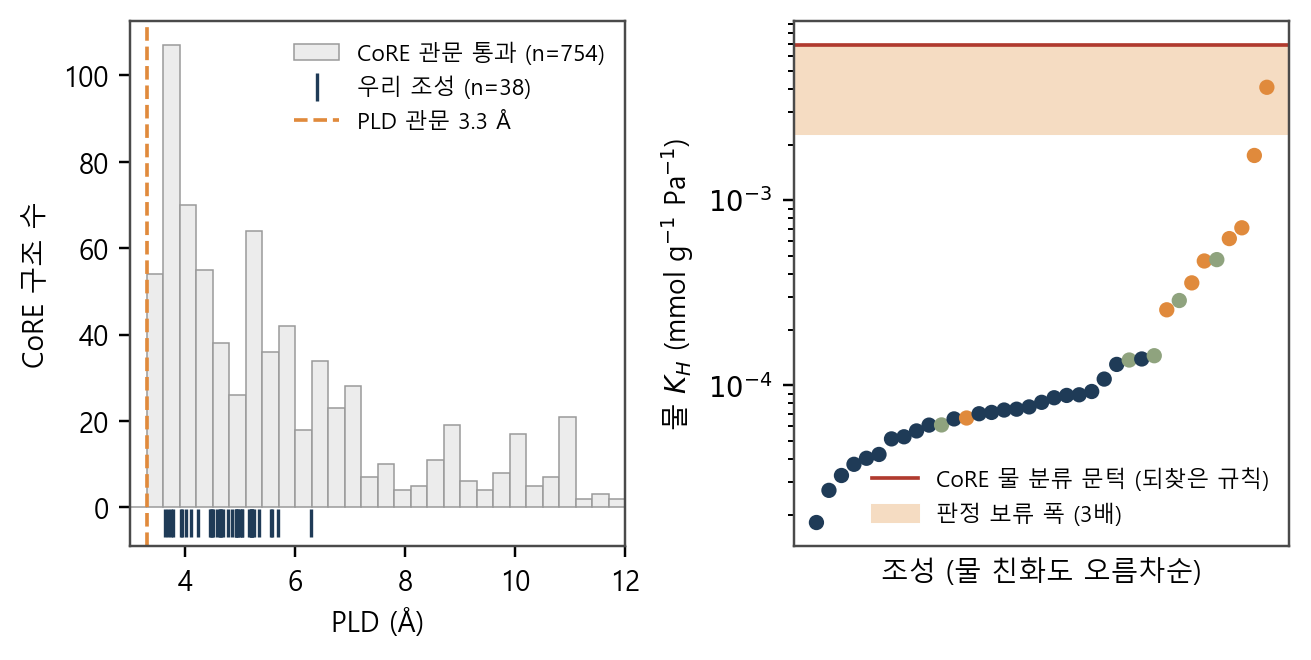
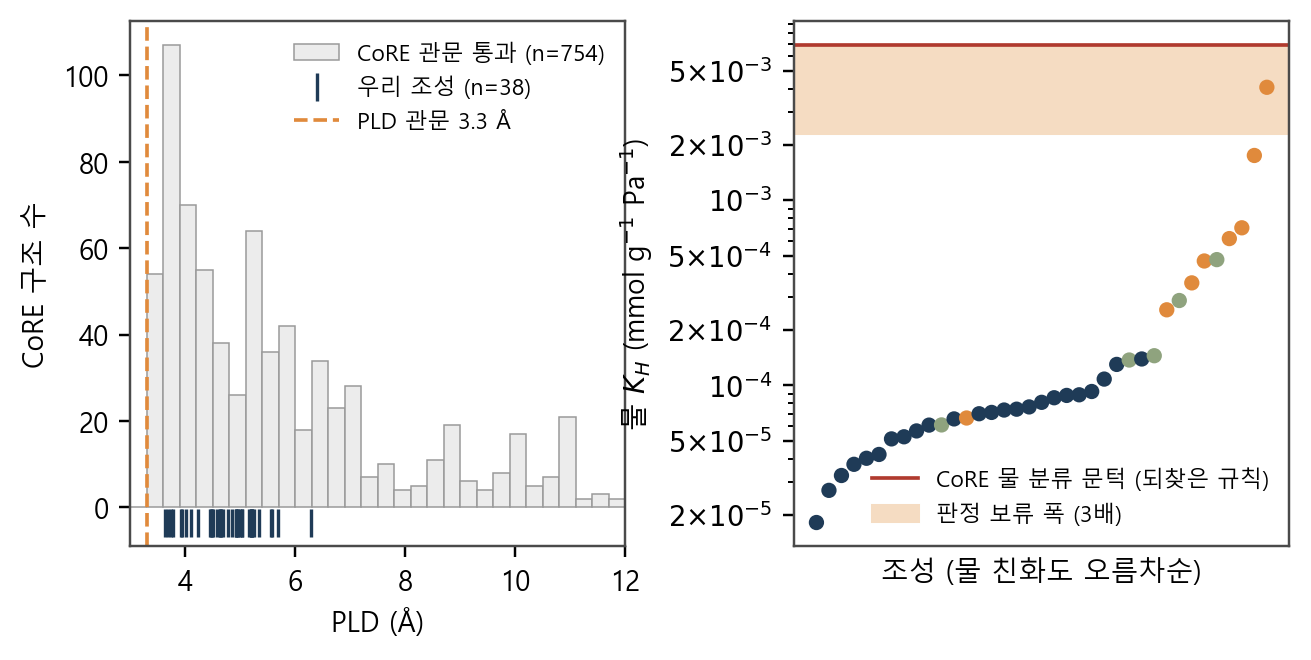
Adopt the notebook's Frontier chart idiom for our compositions
The original notebook's charting approach had not been used. Cell 81's
draw_quadrant_frontier plots CO2 affinity (Widom K_H) against CO2/N2 selectivity on
log-log axes with a dashed both-scale grid, colour and marker as two categorical
channels, labels on the top performers and the legend outside the axes. fig9 follows
that.

Changes, each for a reason: no four-way split, per the user and because that split
assigned water robustness from hard-coded metal and topology lists after the fact;
colour is -SO3H substitution rather than metal, since every composition here is Zn;
marker is substituent family rather than OMS, since these frameworks have no open metal
sites; error bars are added, which the original lacked; and labels mark the
non-dominated set plus the five highest selectivities instead of the top three by a
score built from 0.6/0.4 weights and a top-5% clip.

The non-dominated set has one member. saIm100 leads on both axes, which means these two
axes carry no trade-off - selectivity and CO2 Henry constant both rise with sulfonic
content. The trade-off appears against water, which is fig8. The figure marks that with
a ring rather than a line and says so in the legend.

Two small fixes: log_ticks now labels 2x and 5x positions when the range spans less
than about two decades, since the plain decade labelling left a single tick; and labels
alternate above and below, because saIm0875 and saIm075 sit at 94.7 and 94.5 and their
text collided.
[…]

diff --git a/tools/make_figs_screening.py b/tools/make_figs_screening.py
@@ -65,8 +65,18 @@ def log_ticks(ax, axis='y'):
     a = ax.yaxis if axis == 'y' else ax.xaxis
     lo, hi = (ax.get_ylim() if axis == 'y' else ax.get_xlim())
     exps = list(range(int(np.floor(np.log10(lo))), int(np.ceil(np.log10(hi))) + 1))
-    a.set_ticks([10.0 ** e for e in exps])
-    a.set_ticklabels(['$10^{%d}$' % e for e in exps])
+    ticks = [10.0 ** e for e in exps]
+    labs = ['$10^{%d}$' % e for e in exps]
+    if sum(1 for t in ticks if lo <= t <= hi) < 3:          # 한두 자릿수 안이면 라벨이 너무 성깁니다
+        ticks, labs = [], []
+        for e in exps:
+            for m in (1, 2, 5):
+                v = m * 10.0 ** e
+                if lo <= v <= hi:
+                    ticks.append(v)
+                    labs.append('$10^{%d}$' % e if m == 1 else r'$%d{\times}10^{%d}$' % (m, e))
+    a.set_ticks(ticks)
+    a.set_ticklabels(labs)
     a.set_minor_locator(LogLocator(base=10.0, subs=tuple(np.arange(2, 10) * 0.1) + tuple(range(2, 10))))
     a.set_minor_formatter(NullFormatter())          # 소눈금에 라벨이 붙으면 같은 버그를 또 만납니다
     if axis == 'y':
@@ -189,3 +199,95 @@ log_ticks(ax, 'y')
 finish(fig, 'fig8_screen_tradeoff.png')
 
 print('  (오차 막대는 RASPA 95 % 신뢰구간 — 문턱 1.5 단위는 순위에만 씁니다)')
+
+
+# ── 그림 9 : Frontier 맵 — **원본 노트북의 방식** ───────────────────────────
+#
+# 원본(`MOF_Screening.ipynb` 셀 81 `draw_quadrant_frontier`)의 방식을 그대로 씁니다:
+#   x = CO2 친화도(Widom K_H) · y = CO2/N2 선택도 · **양쪽 로그** · 점선 격자(which='both')
+#   색 = 범주 · 마커 = 두 번째 범주 · 상위 물질에 이름표 · 범례는 그림 바깥 오른쪽
+#
+# 바꾼 것과 그 이유:
+#   · 4분할(Core/Robust × DAC/FlueGas) **안 함** — 사용자 지시. 그 분할은 금속·위상 목록으로
+#     내습성을 정하는 사후 규칙이었고(D3), 우리 조성은 전부 Zn 이라 가르는 뜻도 없습니다.
+#   · 색: 금속 → **-SO3H 치환율**. 우리는 전부 Zn 이라 금속이 정보를 안 담습니다.
+#   · 마커: OMS → 치환기 계열. 우리 구조에 열린 금속 자리가 없습니다.
+#   · **오차 막대를 넣습니다** — 원본에는 없었습니다(D4). RASPA 95 % 신뢰구간입니다.
+#   · 이름표: "점수 상위 3개" → **비지배 집합(파레토 전선) 전부**.
+#     원본의 점수는 0.6×선택도 + 0.4×용량 + 상위 5 % 클리핑이라 가중치 근거가 없었습니다(D5).
+#     비지배는 가중치가 필요 없습니다 — 어떤 가중치를 써도 최적은 이 집합 안에 있습니다.
+#   · 제목 없음 — 이 저장소 방침(`make_figs.py` 머리말).
+import seaborn as sns                                  # noqa: E402
+
+sns.set_theme(style='whitegrid')
+plt.rcParams['font.family'] = fm.FontProperties(fname=FP).get_name()
+plt.rcParams['axes.unicode_minus'] = False
+plt.rcParams['font.size'] = 9
+
+pts = [n for n in ours if ours[n].get('selectivity') and ours[n].get('KH_CO2')]
+X = {n: ours[n]['KH_CO2'] for n in pts}
+Y = {n: ours[n]['selectivity'] for n in pts}
+
+
+def pareto(names):
+    """비지배 집합 — 두 축 모두에서 자기보다 나은 것이 없는 조성."""
+    out = []
+    for n in names:
+        if not any(X[m] > X[n] and Y[m] > Y[n] for m in names if m != n):
+            out.append(n)
+    return sorted(out, key=lambda n: X[n])
+
+
+front = pareto(pts)
+
+fig, ax = plt.subplots(figsize=(6.6, 4.2))
+for fi, (_, lab, mk) in enumerate(FAM):
+    sel = [n for n in pts if family(n) == fi]
+    if not sel:
+        continue
+    x = [X[n] for n in sel]
+    y = [Y[n] for n in sel]
+    ax.errorbar(x, y, yerr=[ours[n].get('selectivity_err') or 0 for n in sel],
+                xerr=[ours[n].get('KH_CO2_err') or 0 for n in sel],
+                fmt='none', ecolor=GREY, elinewidth=0.7, capsize=1.5, zorder=2)
+    if fi == 0:
+        sc = ax.scatter(x, y, c=[sub_pct(n) or 0 for n in sel], cmap='YlOrBr',
+                        vmin=0, vmax=100, s=60, marker=mk, edgecolor='#5A3A0E',
+                        linewidth=0.7, zorder=3, label=lab)
+        cb = fig.colorbar(sc, ax=ax, pad=0.012, fraction=0.04)
+        cb.set_label(SUB, fontsize=8)
+        cb.ax.tick_params(labelsize=7.5)
+    else:
+        ax.scatter(x, y, s=44, marker=mk, color=(SAGE if fi == 1 else NAVY),
+                   edgecolor='white', linewidth=0.5, zorder=3, label=lab)
+
+# 비지배 집합. 두 축이 같은 방향으로 움직이면(우리 경우) 집합이 한 점으로 줄어듭니다 —
+# 그 자체가 결과입니다: **이 두 축에는 상충이 없습니다.** 상충은 물 축에서 나타납니다(fig8).
+if len(front) > 1:
+    ax.plot([X[n] for n in front], [Y[n] for n in front], '-', color='#B03A2E',
+            linewidth=1.1, alpha=0.85, zorder=1, label=f'비지배 전선 (n={len(front)})')
+else:
+    n0 = front[0]
+    ax.scatter([X[n0]], [Y[n0]], s=210, facecolor='none', edgecolor='#B03A2E',
+               linewidth=1.3, zorder=1, label=f'비지배 (n=1) — 두 축 모두 최고')
+
+label_me = sorted(set(sorted(pts, key=lambda n: -Y[n])[:5]) | set(front),
+                  key=lambda n: -Y[n])
+# 이름표가 서로 겹칩니다(saIm0875 / saIm075 가 선택도 94.7 대 94.5 로 사실상 같은 자리).
+# 위·아래로 번갈아 밀어 둡니다 — 값은 그대로, 읽기만 돕습니다.
+for k, n in enumerate(label_me):
+    dy = 6 if k % 2 == 0 else -11
+    ax.annotate(n, (X[n], Y[n]), xytext=(7, dy), textcoords='offset points',
+                fontsize=7.2, color='#5A2A1E')
+
+ax.set_xscale('log')
+ax.set_yscale('log')
+ax.set_xlabel('CO$_2$ 친화도  Widom $K_H$ (mmol g$^{-1}$ Pa$^{-1}$)')
+ax.set_ylabel('선택도  CO$_2$ / N$_2$')
+ax.grid(True, which='both', ls='--', alpha=0.4)
+ax.set_xlim(min(X.values()) * 0.7, max(X.values()) * 2.2)
+ax.set_ylim(min(Y.values()) * 0.75, max(Y.values()) * 1.9)
+ax.legend(bbox_to_anchor=(1.18, 1.0), loc='upper left', frameon=False, fontsize=7.8)
+log_ticks(ax, 'x')
+log_ticks(ax, 'y')
+finish(fig, 'fig9_frontier.png')

diff --git a/SESSION_LOG.md b/SESSION_LOG.md
@@ -2179,3 +2179,9 @@ risk_results_v3sub.json 은 사슬 백업(before_tnf1_09191531, HEAD 와 동일)
 **★ 포기 기준(등록 §5)**: `|β−1| > 0.2` 또는 잔차 `s > 0.5 자릿수` 또는 이미다졸레이트 잔차가 나머지와 s 이상 차이 → **`GATES23 §3` 이전 논증 철회, 발표 차트에 우리 물질을 CoRE 성능 축에 놓지 않음.**
 연막 시험 통과(300사이클 11초, `2022[Cu][sql]2[ASR]1` K_H 1.51e-05 대 CoRE 7.37e-06 = 2.05배, 예측 대역 1.0~5.0 안 — **본 실행값 아님**). 21:36 착수 PID 1815950, `nice -n 19` · MAX_WORKERS=2 (§AS Q_st(n) 사슬이 등록된 우선 작업이라 양보). simulate 8→10. 예상 2~4 h.
 **그림** `tools/make_figs_screening.py` → `04_Analysis/figs/fig7_screen_gates.png` · `fig8_screen_tradeoff.png`. 기존 `make_figs.py` 팔레트·방침 그대로(그림 위 주석 없음). **CoRE 성능 축에 우리 값을 섞지 않았습니다** — 관문 축(PLD·물 분류)과 우리 계열 안 비교만. fig7 왼쪽: CoRE 관문 통과 754의 PLD 분포 위 우리 38(전부 3.3 Å 위). 오른쪽: 우리 물 K_H 대 되찾은 문턱(전부 아래, saIm100 만 보류 폭 안). fig8: 선택도 대 물 K_H — **술폰산 계열이 대각선으로 오르고 saIm100 이 문턱 바로 앞**. 부수 결함: Malgun 에 U+2212 가 없어 로그 눈금이 `10¤4` 로 깨짐 — `axes.unicode_minus` 도 `mathtext.*` rcParam 도 LogFormatter 경로엔 안 먹어 **눈금 라벨을 직접** 쓰는 `log_ticks()` 로 해결.
+
+**[21:47 원본 노트북의 Frontier 방식으로 fig9]** 사용자 지적 — ipynb 의 차팅 방식을 안 썼음. 셀 81 `draw_quadrant_frontier` 를 읽어 그대로 채용: **x = CO₂ 친화도(Widom K_H) · y = CO₂/N₂ 선택도 · 양쪽 로그 · 점선 격자(which='both') · 색/마커 이중 범주 · 상위 물질 이름표 · 범례 그림 바깥 · seaborn whitegrid.**
+바꾼 것: **4분할(Core/Robust × DAC/FlueGas) 안 함**(사용자 지시 + 그 분할은 금속·위상 목록으로 내습성을 정하는 사후 규칙 D3) · 색을 금속 → **-SO₃H 치환율**(우리는 전부 Zn 이라 금속이 정보를 안 담음) · 마커를 OMS → 치환기 계열(우리 구조에 열린 금속 자리 없음) · **오차 막대 추가**(원본엔 없음, D4) · 이름표를 "점수 상위 3" → **비지배 집합 + 선택도 상위 5**(원본 점수는 0.6/0.4 임의 가중 + 상위 5 % 클리핑이라 D5) · 제목 없음(저장소 방침).
+★ **비지배 집합이 n=1 입니다 — saIm100 이 두 축 모두에서 최고.** 즉 **이 두 축에는 상충이 없습니다**(선택도와 K_H 가 술폰산 함량을 따라 같이 오름). 상충은 물 축에서 나타나며 그게 fig8 입니다. 그림에 선 대신 동그라미로 표시하고 범례에 명시.
+부수: `log_ticks()` 가 한두 자릿수 안이면 2·5 배수에도 라벨을 붙이도록 보완(원래 10⁻⁴ 하나만 나왔음) · 이름표 상하 번갈아 밀기(saIm0875 94.7 대 saIm075 94.5 로 사실상 같은 자리라 겹침).
+T-BR-1 진행: 21:46 기준 24 중 2 완주(건당 ~8분, 워커 2) → **약 23:15 완료 예상.**
